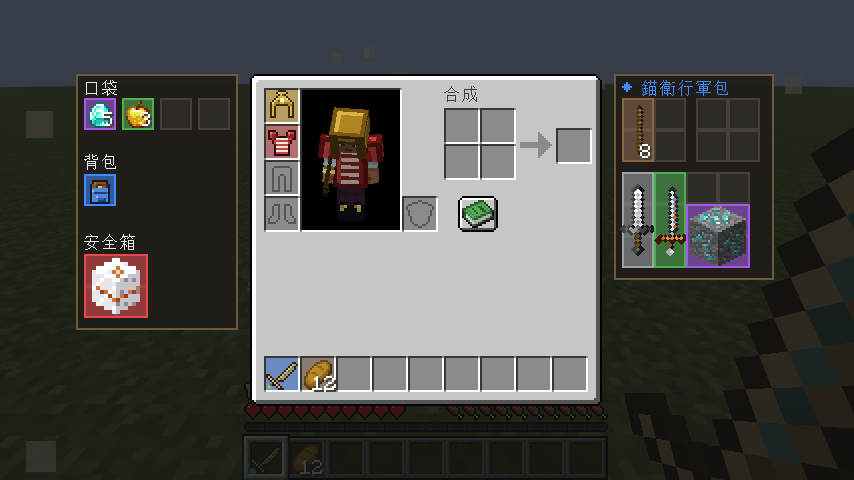
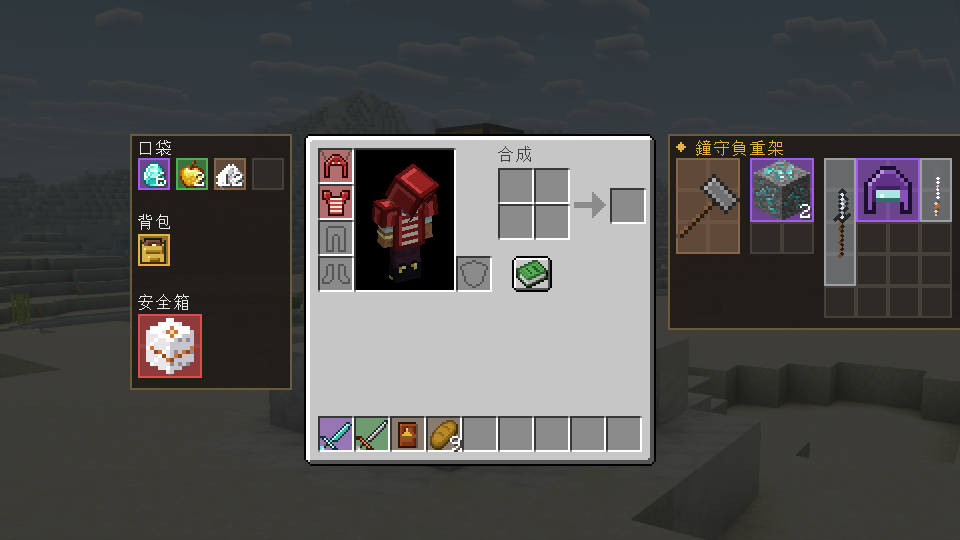
docs: README 加入大更新內容並改用遊戲內光影照片，英文版改用英文字標
- 材質武器、世界與建築、追獵者手冊的說明與照片
- 照片由拍攝模式在遊戲中擺好拍攝，取代舊的測試截圖
- 英文 README 與貢獻指南改用英文字標，並註明翻譯自中文版

diff --git a/README.md b/README.md
@@ -28,10 +28,13 @@
 
 </div>
 
+![穿著鏽神骸盔與鏽神鱗甲、手持獄髓戰鎚的追獵者，站在黃昏的投放站平台上](docs/images/hunter.jpg)
+
 ## 目錄
 
 - [功能一覽](#功能一覽)
 - [開始遊玩](#開始遊玩)
+- [世界與建築](#世界與建築)
 - [操作](#操作)
 - [品級與裝備](#品級與裝備)
 - [格子背包](#格子背包)
@@ -45,21 +48,47 @@
 
 | 範圍 | 做什麼 |
 | --- | --- |
-| 鹽 | 貨幣。擊敗生物獲得：敵對生物給等同最大生命值的鹽，其他生物給五分之一（至少 1）。 |
+| 鹽 | 貨幣。擊敗生物獲得：敵對生物給等同最大生命值的鹽，其他生物給五分之一（至少 1）。建築裡撿到的鹽，右鍵使用後每個換成 10 點。 |
 | 殘香與墓碑 | 死亡時身上的鹽全部化為殘香，留在陣亡點的墓碑裡；左鍵打開墓碑取回。再次死亡前沒取回，舊的殘香就會散去。 |
 | 金鐘 | 存檔點。右鍵歇息：回滿生命與飽食度，並設為重生點。邊緣世界沒有這種物質，無法合成。 |
 | 一次性金鐘 | 用金礦（金礦石或粗金）加鐵鍊合成，喚回你一次後碎裂。 |
 | 小地圖 | 內建在右上角，北方朝上；標出你的朝向、綁定的金鐘與陣亡點，超出範圍時貼在邊緣指方向。 |
-| 武器 | 錨刃、沉鐘大劍、霧行長槍、鹽牙四個分支，各有原版畫風的貼圖與手持模型、揮擊與命中音效、第一與第三人稱動作。 |
+| 武器 | 直刃、大劍、長槍、短刃、戰鎚五個分支，每個分支有木、石、鐵、鑽石、獄髓五種材質，從第一天就有東西可用；另有錨刃、沉鐘大劍、霧行長槍、鹽牙四把具名武器。每把都有原版畫風的貼圖與手持模型、揮擊與命中音效、第一與第三人稱動作。 |
+| 追獵者手冊 | 第一次進入世界時放在快捷欄，九頁寫著世界觀、任務與規則。 |
+| 世界與建築 | 出生點必定是一座破損或仿冒的追獵者投放站；世界各處還有投放站、鹽塚、鏽錨殘骸與霧中崗哨，裡面有補給。 |
 | 品級 | N、I～VI 七級；名稱顯示為品級色的「◆ 名稱」，物品欄以品級色為底。 |
 | 裝備 | 每個品級各一頂頭盔、一件護甲、一個背包，耐久、防護、容量與格局都不同，各有兩行故事描述。 |
 | 格子背包 | 四個口袋、依背包而定的格局、死亡不會掉落的安全箱；每件物品依種類佔用不同格數，可以旋轉。 |
 | 語言 | 繁體中文與英文。 |
 
+| | |
+| --- | --- |
+| ![倒下的地方留下墓碑，右上角的小地圖標出陣亡點](docs/images/gravestone.jpg) | ![夜色裡在金鐘旁歇息](docs/images/golden-bell.jpg) |
+
 > [!TIP]
 > 最簡單的玩法是使用**霧宿啟動器**：它會裝好遊戲、Java、Fabric、本模組與一整套優化模組，並依你的電腦調整成流暢、普通或超高。
 
 ### 武器
+
+五個分支各有自己的揮擊、佔格與手感，材質決定傷害、耐久與品級：
+
+| 分支 | 揮擊 | 每秒攻擊 | 攻擊距離 | 佔格 | 配方（`X` 材料、`#` 木棍、`.` 空格） |
+| --- | --- | --- | --- | --- | --- |
+| 直刃 | 由右上往左下斜斬 | 1.6 | 3 | 1×3 | `..X` / `.X.` / `#..` |
+| 大劍 | 舉過肩後重劈 | 0.7 | 3.5 | 1×4 | `.XX` / `.XX` / `#..` |
+| 長槍 | 後收再突刺 | 1.1 | 4 | 1×4 | `..X` / `.#X` / `#..` |
+| 短刃 | 一次揮擊兩段交叉斬 | 2.6 | 2.6 | 1×2 | `X` / `#` |
+| 戰鎚 | 側邊蓄力後橫掃，額外擊退 | 0.8 | 3 | 2×3 | `XXX` / `XXX` / `.#.` |
+
+| 材質 | 品級 | 耐久 | 直刃 | 大劍 | 長槍 | 短刃 | 戰鎚 |
+| --- | --- | --- | --- | --- | --- | --- | --- |
+| 木 | N | 59 | 4 | 7 | 4.5 | 2.5 | 6 |
+| 石 | N | 131 | 5 | 8 | 5.5 | 3.5 | 7 |
+| 鐵 | I | 250 | 6 | 9 | 6.5 | 4.5 | 8 |
+| 鑽石 | IV | 1561 | 7 | 10 | 7.5 | 5.5 | 9 |
+| 獄髓 | V | 2031 | 8 | 11 | 8.5 | 6.5 | 10 |
+
+材料和原版工具一樣（任何木板、圓石類、鐵錠、鑽石）；獄髓武器在鍛造台由鑽石武器升級。具名武器：
 
 | 武器 | 揮擊 | 傷害 | 每秒攻擊 | 攻擊距離 |
 | --- | --- | --- | --- | --- |
@@ -69,6 +98,8 @@
 | 鹽牙 | 一次揮擊兩段交叉斬 | 5 | 2.6 | 2.6 |
 
 傷害為面板數值（含徒手的 1 點）。
+
+![第一人稱拿著鑽石大劍，看著投放艙；右上角是小地圖與身上的鹽](docs/images/first-person.jpg)
 
 ## 開始遊玩
 
@@ -80,6 +111,22 @@
 
 > [!NOTE]
 > 本模組只支援 Minecraft 26.3。創造模式保留原版物品欄，格子背包只在生存與冒險模式啟用。
+
+## 世界與建築
+
+鏽錨站把追獵者從邊緣外投進禁區。你醒來的地方不是真正的投放站，而是兩種之一：早已**破損的追獵者投放站**，或是有人照著鏽錨站的樣子蓋的**仿冒的追獵者投放站**。出生點固定在平台上，不會卡在牆裡；快捷欄裡有一本《追獵者手冊》。
+
+| 建築 | 在哪裡 | 裡面有什麼 |
+| --- | --- | --- |
+| 追獵者投放站 | 陸地，少見 | 一座一次性金鐘；補給桶裡是石與鐵武器、口糧、I～II 級裝備 |
+| 鹽塚 | 海灘與惡地 | 頂上的箱子：鹽、石英、低階背包，偶爾有鹽牙 |
+| 鏽錨殘骸 | 海灘 | 半埋在沙裡的巨錨，旁邊埋著箱子：鐵武器、I～III 級護甲，偶爾有錨刃 |
+| 霧中崗哨 | 陸地，很少見 | 塔頂瞭望者的箱子：鐵與鑽石武器、II～IV 級裝備，偶爾有霧行長槍或一次性金鐘 |
+
+| | |
+| --- | --- |
+| ![黃昏的平原上，一座完整的追獵者投放站](docs/images/drop-station.jpg) | ![森林邊緣的霧中崗哨](docs/images/watchpost.jpg) |
+| ![清晨的海灘上，半埋在沙裡的鏽錨殘骸](docs/images/anchor-wreck.jpg) | ![惡地的鹽塚](docs/images/salt-cairn.jpg) |
 
 ## 操作
 
@@ -126,6 +173,8 @@
 - 佔格依物品種類：鑽石與錠 1×1、木棍 1×2、工具與劍 1×3、礦石等方塊 2×2、護甲 2×2 或 2×3。
 - 背包裡的東西存在背包物品本身，換背包時內容會跟著走。
 
+![格子背包：左邊是口袋、背包與安全箱，右邊是鐘守負重架的格局](docs/images/grid-inventory.png)
+
 ## 從原始碼建置
 
 需要 JDK 25。原始碼放在 OneDrive 或含中文的路徑時，請用 `build.ps1`：它會把資料夾對應到磁碟代號，並把 Gradle 的快取與輸出放到 `~/.gradle` 底下。
@@ -138,12 +187,7 @@
 
 一般路徑可以直接使用 `./gradlew build`。
 
-所有貼圖與音效由腳本從零產生，修改後重新執行：
-
-```powershell
-python tools/make_assets.py     # 貼圖、模型、音效（需要 numpy、Pillow、soundfile）
-python tools/make_wordmark.py   # README 的字標
-```
+貼圖、模型與音效都是森之宿茶室自己做的原創素材，倉庫裡只放成品（PNG、OGG、JSON），不放繪製用的原始檔。
 
 ## 專案結構
 
@@ -156,15 +200,15 @@ src/main/java/life/shizune/mistinn/
   residue/     死亡、殘香與墓碑
   salt/        鹽
   tier/        品級
-  weapon/      武器分支
+  weapon/      武器分支與材質
+  world/       出生點與世界建築
   mixin/       物品欄、揮擊音效
 src/client/java/life/shizune/mistinn/client/
   anim/        第一與第三人稱揮擊動作
   grid/        格子背包面板
   map/         小地圖
   tier/        「◆ 名稱」與提示
-src/gametest/  客戶端遊戲測試
-tools/         貼圖、音效與字標產生器
+src/gametest/  客戶端遊戲測試與拍攝
 docs/          設計文件
 ```
 
@@ -179,7 +223,7 @@ docs/          設計文件
 歡迎錯誤修復、功能、測試、美術與文件更新。請先讀 [貢獻指南](CONTRIBUTING.md)。
 
 > [!IMPORTANT]
-> 這個專案不排斥 AI：用 AI 工具協助完成的貢獻，和手寫的一視同仁。但 Pull Request 必須沒有安全隱患才會合併，而且**所有素材都必須由本倉庫的腳本產生**，不接受其他遊戲或材質包的素材。要求寫在貢獻指南的[使用 AI 工具](CONTRIBUTING.md#使用-ai-工具)。
+> 這個專案不排斥 AI：用 AI 工具協助完成的貢獻，和手寫的一視同仁。但 Pull Request 必須沒有安全隱患才會合併，而且**素材必須是原創**，不接受其他遊戲或材質包的素材。要求寫在貢獻指南的[使用 AI 工具](CONTRIBUTING.md#使用-ai-工具)。
 
 問題回報請到[森之宿茶室官網](https://moriteahouse.shizune.life/account)。
 
@@ -189,7 +233,7 @@ Copyright (c) 2026 Keeiv。
 
 採用 **GNU Affero General Public License v3.0 only（AGPL-3.0-only）**，條文見 [LICENSE](LICENSE)，著作權聲明見 [NOTICE](NOTICE)。可以複製、修改、散布與商業使用；散布修改後的版本時，須以相同授權提供完整的對應原始碼。
 
-所有貼圖、模型與音效由本倉庫的腳本產生，與程式碼使用相同授權。
+所有貼圖、模型與音效為原創，與程式碼使用相同授權。
 
 > [!NOTE]
 > 字標使用 [Fusion Pixel Font](https://github.com/TakWolf/fusion-pixel-font)（SIL Open Font License 1.1）繪製。Minecraft 是 Mojang Studios 的商標，本模組與 Mojang、Microsoft 沒有關聯。

diff --git a/docs/README.en.md b/docs/README.en.md
@@ -4,8 +4,8 @@
 
 <h1>
   <picture>
-    <source media="(prefers-color-scheme: dark)" srcset="../assets/logo/mistinn-wordmark-light.png">
-    <img src="../assets/logo/mistinn-wordmark.png" alt="Mistinn: Exile" width="320">
+    <source media="(prefers-color-scheme: dark)" srcset="../assets/logo/mistinn-wordmark-en-light.png">
+    <img src="../assets/logo/mistinn-wordmark-en.png" alt="Mistinn: Exile" width="330">
   </picture>
 </h1>
 
@@ -23,15 +23,21 @@ gear in seven tiers, and a grid inventory inspired by extraction shooters.
 [MoriTeahouse](https://moriteahouse.shizune.life) ·
 [Features](#features) ·
 [Playing](#playing) ·
-[Phase 2 design (Chinese)](phase2-design.md) ·
+[Phase 2 design](phase2-design.md) (Chinese) ·
 [Contributing](CONTRIBUTING.en.md)
 
 </div>
+
+![A hunter in the Rust God's Skull and Scales with a netherite hammer, standing on a drop station platform at dusk](images/hunter.jpg)
+
+> [!NOTE]
+> This is a translation of the [Chinese README](../README.md), which remains the primary version. Pages marked (Chinese) are only available in Chinese for now.
 
 ## Contents
 
 - [Features](#features)
 - [Playing](#playing)
+- [World and structures](#world-and-structures)
 - [Controls](#controls)
 - [Tiers and gear](#tiers-and-gear)
 - [Grid inventory](#grid-inventory)
@@ -44,12 +50,14 @@ gear in seven tiers, and a grid inventory inspired by extraction shooters.
 
 | Area | What it does |
 | --- | --- |
-| Salt | The currency. Defeating a hostile creature gives salt equal to its maximum health; others give a fifth (at least 1). |
+| Salt | The currency. Defeating a hostile creature gives salt equal to its maximum health; others give a fifth (at least 1). Salt found in structures is worth 10 each when used. |
 | Residue and gravestones | When you fall, all the salt you carry becomes residue held by a gravestone where you fell; hit it to take the salt back. Fall again first and the old residue fades. |
 | Golden bells | Save points. Rest at one to heal, eat and set it as your respawn point. The border world has no such metal, so they cannot be crafted. |
 | One-time bells | Cast from gold ore (ore or raw gold) and an iron chain; brings you back once, then cracks. |
 | Minimap | Built in, north up; shows your heading, your bell and where you fell, pinned to the edge when off the map. |
-| Weapons | Anchor Blade, Sunken Bell Greatsword, Mistwalker Spear and Salt Fang, each with vanilla-style art and held model, its own swing and hit sounds, and its own first- and third-person swing. |
+| Weapons | Five branches (blade, greatsword, spear, dagger, hammer) in five materials (wood, stone, iron, diamond, netherite), so there is something to fight with from day one; plus four named weapons: Anchor Blade, Sunken Bell Greatsword, Mistwalker Spear and Salt Fang. Each has vanilla-style art and a held model, its own swing and hit sounds, and its own first- and third-person swing. |
+| Hunter's Guide | Placed in your hotbar the first time you join; nine pages on the world, the mission and the rules. |
+| World and structures | You always start at a broken or counterfeit drop station; drop stations, salt cairns, anchor wrecks and mist watchposts with supplies are scattered across the world. |
 | Tiers | N and I–VI; names show as "◆ name" in the tier colour, and inventory cells sit on the tier colour. |
 | Gear | A helmet, body armour and backpack per tier, each with its own durability, protection, capacity, layout and a two-line story. |
 | Grid inventory | Four pockets, a layout set by the backpack, and a safe box kept through death; every item takes a footprint by kind and can be rotated. |
@@ -60,6 +68,26 @@ gear in seven tiers, and a grid inventory inspired by extraction shooters.
 
 ### Weapons
 
+Each branch has its own swing, footprint and feel; the material sets damage, durability and tier.
+
+| Branch | Swing | Attacks per second | Reach | Footprint | Recipe (`X` material, `#` stick, `.` empty) |
+| --- | --- | --- | --- | --- | --- |
+| Blade | Diagonal slash, upper right to lower left | 1.6 | 3 | 1×3 | `..X` / `.X.` / `#..` |
+| Greatsword | Raised over the shoulder, then brought down | 0.7 | 3.5 | 1×4 | `.XX` / `.XX` / `#..` |
+| Spear | Draw back, then thrust | 1.1 | 4 | 1×4 | `..X` / `.#X` / `#..` |
+| Dagger | Two crossing cuts in one swing | 2.6 | 2.6 | 1×2 | `X` / `#` |
+| Hammer | Wound up at the side, then swept across; extra knockback | 0.8 | 3 | 2×3 | `XXX` / `XXX` / `.#.` |
+
+| Material | Tier | Durability | Blade | Greatsword | Spear | Dagger | Hammer |
+| --- | --- | --- | --- | --- | --- | --- | --- |
+| Wood | N | 59 | 4 | 7 | 4.5 | 2.5 | 6 |
+| Stone | N | 131 | 5 | 8 | 5.5 | 3.5 | 7 |
+| Iron | I | 250 | 6 | 9 | 6.5 | 4.5 | 8 |
+| Diamond | IV | 1561 | 7 | 10 | 7.5 | 5.5 | 9 |
+| Netherite | V | 2031 | 8 | 11 | 8.5 | 6.5 | 10 |
+
+Materials match vanilla tools (any planks, cobblestone-like stones, iron ingots, diamonds); netherite weapons are upgraded from diamond ones at a smithing table. Named weapons:
+
 | Weapon | Swing | Damage | Attacks per second | Reach |
 | --- | --- | --- | --- | --- |
 | Anchor Blade | Diagonal slash, upper right to lower left | 7 | 1.6 | 3 |
@@ -67,12 +95,30 @@ gear in seven tiers, and a grid inventory inspired by extraction shooters.
 | Mistwalker Spear | Draw back, then thrust | 8 | 1.1 | 4.5 |
 | Salt Fang | Two crossing cuts in one swing | 5 | 2.6 | 2.6 |
 
+Damage is the tooltip value (including the 1 point of a bare hand).
+
 ## Playing
 
 You need Minecraft Java Edition 26.3, [Fabric Loader](https://fabricmc.net/use/) 0.20.1 or newer, [Fabric API](https://modrinth.com/mod/fabric-api) and Java 25. Put `mistinn-<version>.jar` and Fabric API in your `mods` folder and enter a survival world.
 
 > [!NOTE]
 > Only Minecraft 26.3 is supported. Creative mode keeps the vanilla inventory; the grid inventory is active in survival and adventure.
+
+## World and structures
+
+Rust Anchor drops its hunters into the zone from beyond the edge. Where you wake is not a real drop station but one of two: a long-abandoned **broken drop station**, or a **counterfeit drop station** someone built in Rust Anchor's image. You always start on its platform, never inside a wall, with a *Hunter's Guide* in your hotbar.
+
+| Structure | Where | What it holds |
+| --- | --- | --- |
+| Drop station | On land, uncommon | A one-time bell; a supply barrel with stone and iron weapons, rations and tier I–II gear |
+| Salt cairn | Beaches and badlands | A chest on top: salt, quartz, low-tier backpacks, sometimes a Salt Fang |
+| Anchor wreck | Beaches | A huge anchor half sunk in the sand, a chest buried beside it: iron weapons, tier I–III armour, sometimes an Anchor Blade |
+| Mist watchpost | On land, rare | The lookout's chest at the top: iron and diamond weapons, tier II–IV gear, sometimes a Mistwalker Spear or a one-time bell |
+
+| | |
+| --- | --- |
+| ![An intact drop station on the plains at dusk](images/drop-station.jpg) | ![A mist watchpost at the forest's edge](images/watchpost.jpg) |
+| ![An anchor wreck half sunk in a beach at dawn](images/anchor-wreck.jpg) | ![A salt cairn in the badlands](images/salt-cairn.jpg) |
 
 ## Controls
 
@@ -125,7 +171,7 @@ JDK 25 is required. From a OneDrive folder or a path with non-ASCII characters u
 .\build.ps1 runClientGameTest   # a real client plays the core loop and saves screenshots
 ```
 
-All textures and sounds are generated from scratch: `python tools/make_assets.py` (numpy, Pillow, soundfile) and `python tools/make_wordmark.py`.
+Textures, models and sounds are original work by MoriTeahouse; the repository holds the finished files (PNG, OGG, JSON), not the working files they were drawn from.
 
 ## What comes next
 
@@ -138,13 +184,13 @@ All textures and sounds are generated from scratch: `python tools/make_assets.py
 Bug fixes, features, tests, art and documentation are welcome; read the [contributing guide](CONTRIBUTING.en.md) first.
 
 > [!IMPORTANT]
-> AI-assisted contributions are treated like hand-written ones. A pull request is merged only without security issues, and **every asset must be generated by this repository's scripts**; assets from other games or packs are not accepted.
+> AI-assisted contributions are treated like hand-written ones. A pull request is merged only without security issues, and **assets must be original**; assets from other games or packs are not accepted.
 
 ## License
 
 Copyright (c) 2026 Keeiv.
 
-Licensed under the **GNU Affero General Public License v3.0 only (AGPL-3.0-only)**; see [LICENSE](../LICENSE) and [NOTICE](../NOTICE). Generated textures, models and sounds share the code's license.
+Licensed under the **GNU Affero General Public License v3.0 only (AGPL-3.0-only)**; see [LICENSE](../LICENSE) and [NOTICE](../NOTICE). The original textures, models and sounds share the code's license.
 
 > [!NOTE]
 > The wordmark is drawn with [Fusion Pixel Font](https://github.com/TakWolf/fusion-pixel-font) (SIL Open Font License 1.1). Minecraft is a trademark of Mojang Studios; this mod is not affiliated with Mojang or Microsoft.

diff --git a/docs/CONTRIBUTING.en.md b/docs/CONTRIBUTING.en.md
@@ -3,8 +3,8 @@
 **EN** | [繁中](../CONTRIBUTING.md)
 
 <picture>
-  <source media="(prefers-color-scheme: dark)" srcset="../assets/logo/mistinn-wordmark-light.png">
-  <img src="../assets/logo/mistinn-wordmark.png" alt="Mistinn: Exile" width="220">
+  <source media="(prefers-color-scheme: dark)" srcset="../assets/logo/mistinn-wordmark-en-light.png">
+  <img src="../assets/logo/mistinn-wordmark-en.png" alt="Mistinn: Exile" width="226">
 </picture>
 
 </div>
@@ -28,13 +28,13 @@ One condition: **a pull request is merged only when it has no security issues.**
 - Nothing duplicates items: code that moves items into or out of the grid takes the same amount from the source.
 - File paths, URLs and commands never use unchecked input.
 - New dependencies exist, are maintained and have no known high-risk advisories. Tools sometimes invent package names; verify before installing.
-- **Assets come only from this repository's scripts.** Textures and sounds are generated by the programs in `tools/`; assets from other games, resource packs, AI image generators or the web are not accepted.
+- **Assets must be original.** Assets from other games, resource packs, AI image generators or the web are not accepted. Commit finished files only (PNG, OGG, JSON), never the working files they were drawn from (project files, generator scripts, layered images).
 
 Comments are for future maintainers: say why the code does what it does; do not leave conversations with tools or edit history.
 
 ## Development setup
 
-JDK 25; the Gradle wrapper downloads Gradle. Changing art or sound also needs Python 3.11+ with `numpy`, `Pillow` and `soundfile`.
+JDK 25; the Gradle wrapper downloads Gradle.
 
 ```powershell
 git clone https://github.com/keeiv/mistinn-exile.git
@@ -52,7 +52,7 @@ Use `build.ps1` from OneDrive or non-ASCII paths; elsewhere `./gradlew build` wo
 - Use a mixin only when no event fits; keep injection points small and say why.
 - New items get a tier in `Tiers`, a footprint in `ItemSizes`, and a place in the creative tab.
 - Tier colours are fixed: N rust brown, I grey, II green, III blue, IV purple, V gold, VI red.
-- Art follows vanilla items: each part outlined in its own darkest tone, light from the upper left, 4–5 tones per material; held models are vanilla extruded sprites. Add a drawing function in `tools/vanilla_style.py` and run `python tools/make_assets.py`.
+- Art follows vanilla items: each part outlined in its own darkest tone, light from the upper left, 4–5 tones per material; held models are vanilla extruded sprites.
 
 ## Tests
 
@@ -61,6 +61,14 @@ Use `build.ps1` from OneDrive or non-ASCII paths; elsewhere `./gradlew build` wo
 ```
 
 The client game test opens a real game window, plays weapon swings, resting and respawning at a bell, death and residue, the grid inventory and tiers, and saves screenshots to `build/run/clientGameTest/screenshots`. Every check must pass; when you change what is on screen, look at the screenshots. New features add observable checks (which cell an item landed in, what survived death), not only screenshots.
+
+Photos for the README and the website are staged in the game with photo mode:
+
+```powershell
+.uild.ps1 runClientGameTest -PphotoMode
+```
+
+Photo mode adds Sodium and Iris and shoots each scene at 1920×1080 on the highest settings into `build/run/clientGameTest/photos`. The shader pack is not shipped; put Complementary Reimagined r5.9.3 in `build/run/clientGameTest/shaderpacks` and enable it in `config/iris.properties` in the same run folder.
 
 ## Checks
 

diff --git a/CONTRIBUTING.md b/CONTRIBUTING.md
@@ -28,13 +28,13 @@
 - 不會產生物品複製：任何把物品移進或移出格子背包的程式，都要確認來源確實扣除了同樣的數量。
 - 檔案路徑、網址與指令不使用未經檢查的輸入。
 - 新增的依賴是真實存在、仍在維護、沒有已知高風險通報的套件。工具有時會給出不存在的套件名稱，安裝前請自己查證。
-- **素材只能來自本倉庫的腳本。** 貼圖與音效由 `tools/` 裡的程式產生，不接受其他遊戲、材質包、AI 圖像產生器或網路上的素材。
+- **素材必須是原創。** 不接受其他遊戲、材質包、AI 圖像產生器或網路上的素材。只提交成品（PNG、OGG、JSON），繪製用的原始檔（專案檔、產生腳本、分層圖）不要放進倉庫。
 
 註解寫給之後維護的人看：說明程式為什麼這樣做，不要留下與工具的對話或修改過程。
 
 ## 開發環境
 
-需要 JDK 25；Gradle 由專案內的 wrapper 下載。改貼圖或音效時另外需要 Python 3.11 以上與 `numpy`、`Pillow`、`soundfile`。
+需要 JDK 25；Gradle 由專案內的 wrapper 下載。
 
 ```powershell
 git clone https://github.com/keeiv/mistinn-exile.git
@@ -52,7 +52,7 @@ cd mistinn-exile
 - Mixin 只在找不到事件可用時使用，注入點盡量小，並寫明為什麼需要。
 - 新物品要在 `Tiers` 給定品級、在 `ItemSizes` 給定佔格，並加進創造模式分頁。
 - 品級顏色固定：N 鏽褐、I 灰、II 綠、III 藍、IV 紫、V 金、VI 紅。
-- 畫風照原版物品：每個部件用自己最深的顏色描邊，光從左上方打，每種材質 4～5 個色階；手持模型使用原版的擠出式像素圖。新物品請在 `tools/vanilla_style.py` 加上繪製函式，再執行 `python tools/make_assets.py`。
+- 畫風照原版物品：每個部件用自己最深的顏色描邊，光從左上方打，每種材質 4～5 個色階；手持模型使用原版的擠出式像素圖。
 
 ## 測試
 
@@ -63,6 +63,14 @@ cd mistinn-exile
 客戶端遊戲測試會開啟一個真正的遊戲視窗，跑完武器揮擊、金鐘歇息與重生、死亡與殘香、格子背包與品級，並把截圖存到 `build/run/clientGameTest/screenshots`。所有檢查都要通過；改到畫面時，請打開截圖親眼確認。
 
 新功能請在測試裡加上可觀察的檢查（例如物品放進了哪一格、死亡後保留了什麼），而不是只截圖。
+
+README 與官網的照片用拍攝模式在遊戲裡擺好再拍：
+
+```powershell
+.uild.ps1 runClientGameTest -PphotoMode
+```
+
+拍攝模式會加入 Sodium 與 Iris，以最高畫質把每個場景拍成 1920×1080，存到 `build/run/clientGameTest/photos`。光影包不隨倉庫提供，請自行把 Complementary Reimagined r5.9.3 放進 `build/run/clientGameTest/shaderpacks`，並在同一個執行資料夾的 `config/iris.properties` 啟用。
 
 ## 格式與品質檢查
 
